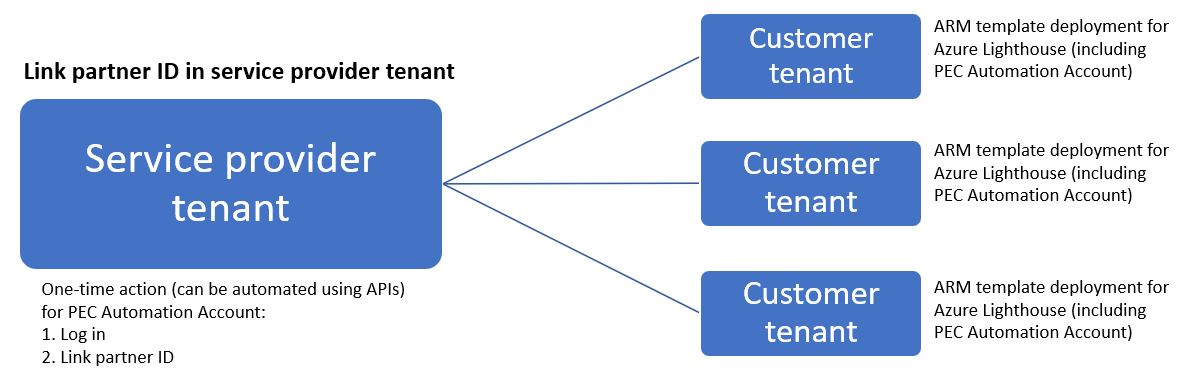
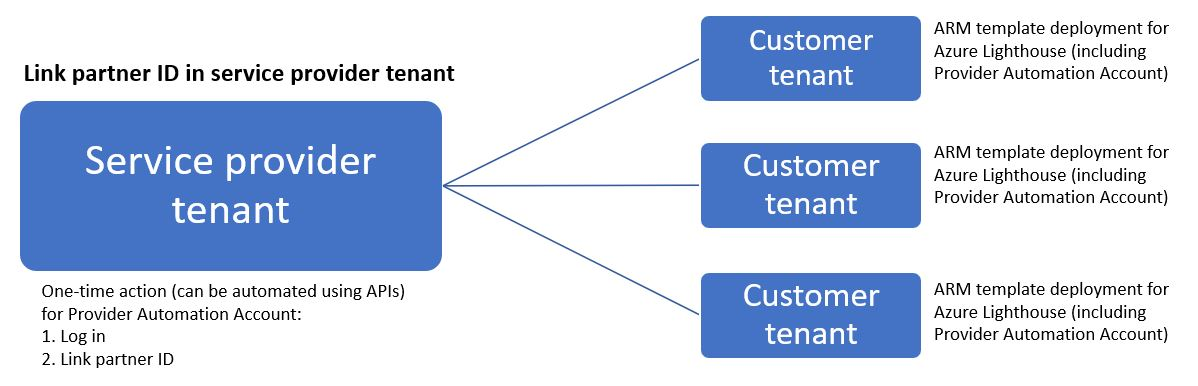
update account name

diff --git a/articles/lighthouse/how-to/partner-earned-credit.md b/articles/lighthouse/how-to/partner-earned-credit.md
@@ -19,17 +19,17 @@ When onboarding customers through Azure Resource Manager templates (ARM template
 
 For simplicity, we recommend creating a service principal account in your tenant, linking it to your **Associated MPN ID**, then granting it access to every customer you onboard with an [Azure built-in role that is eligible for PEC](/partner-center/azure-roles-perms-pec).
 
-1. [Create a service principal account](../../active-directory/develop/howto-authenticate-service-principal-powershell.md) in your managing tenant. For this example, we'll name this service principal PEC Automation Account.
+1. [Create a service principal account](../../active-directory/develop/howto-authenticate-service-principal-powershell.md) in your managing tenant. For this example, we'll use the name *Provider Automation Account* for this service principal.
 1. Using that service principal account, [link to your Associated MPN ID](../../cost-management-billing/manage/link-partner-id.md#link-to-a-partner-id) in your managing tenant. You only need to do this one time.
-1. When you [onboard a customer using ARM templates](onboard-customer.md), be sure to include an authorization which includes the PEC Automation Account as a user with an [Azure built-in role that is eligible for PEC](/partner-center/azure-roles-perms-pec).
+1. When you [onboard a customer using ARM templates](onboard-customer.md), be sure to include an authorization which includes the Provider Automation Account as a user with an [Azure built-in role that is eligible for PEC](/partner-center/azure-roles-perms-pec).
 
-By following these steps, every customer tenant you manage will be associated with your partner ID. The PEC Automation Account does not need to authenticate or perform any actions in the customer tenant.
+By following these steps, every customer tenant you manage will be associated with your partner ID. The Provider Automation Account does not need to authenticate or perform any actions in the customer tenant.
 
 :::image type="content" source="../media/lighthouse-pal.jpg" alt-text="Diagram showing the PAL process with Azure Lighthouse.":::
 
 ## Add your partner ID to previously onboarded customers
 
-If you have already onboarded a customer, you may not want to perform another deployment to add your PEC Automation Account service principal. Instead, you can link your **Associated MPN ID** with a user account which already has access to work in that customer's tenant. Be sure that the account has been granted an [Azure built-in role that is eligible for PEC](/partner-center/azure-roles-perms-pec).
+If you have already onboarded a customer, you may not want to perform another deployment to add your Provider Automation Account service principal. Instead, you can link your **Associated MPN ID** with a user account which already has access to work in that customer's tenant. Be sure that the account has been granted an [Azure built-in role that is eligible for PEC](/partner-center/azure-roles-perms-pec).
 
 Once the account has been [linked to your Associated MPN ID](../../cost-management-billing/manage/link-partner-id.md#link-to-a-partner-id) in your managing tenant, you will be able to track recognition for your impact on that customer.
 
